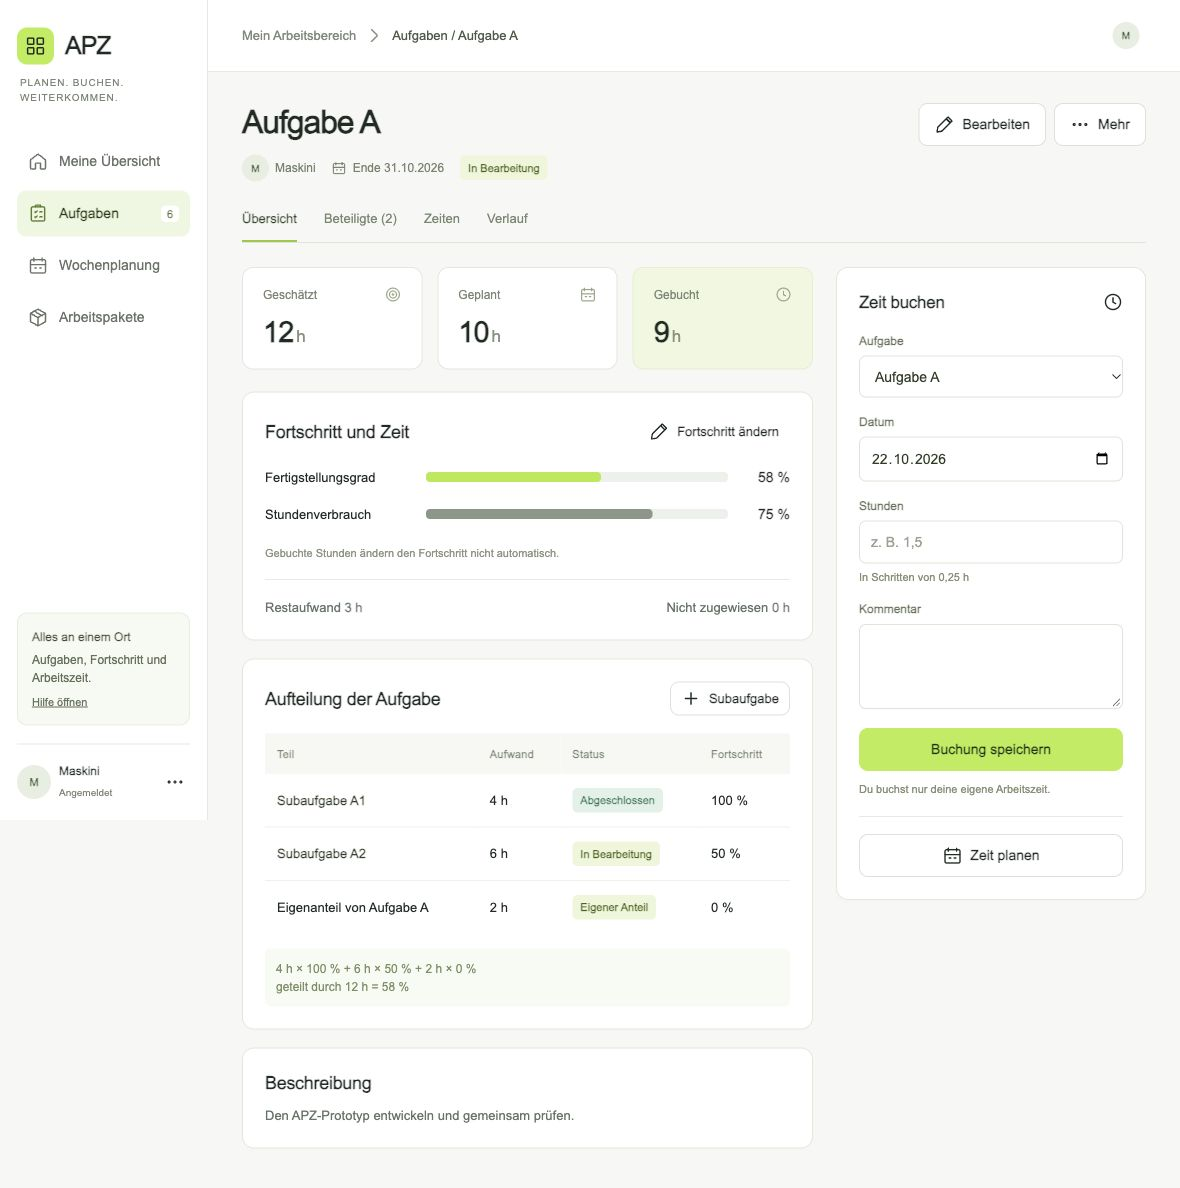
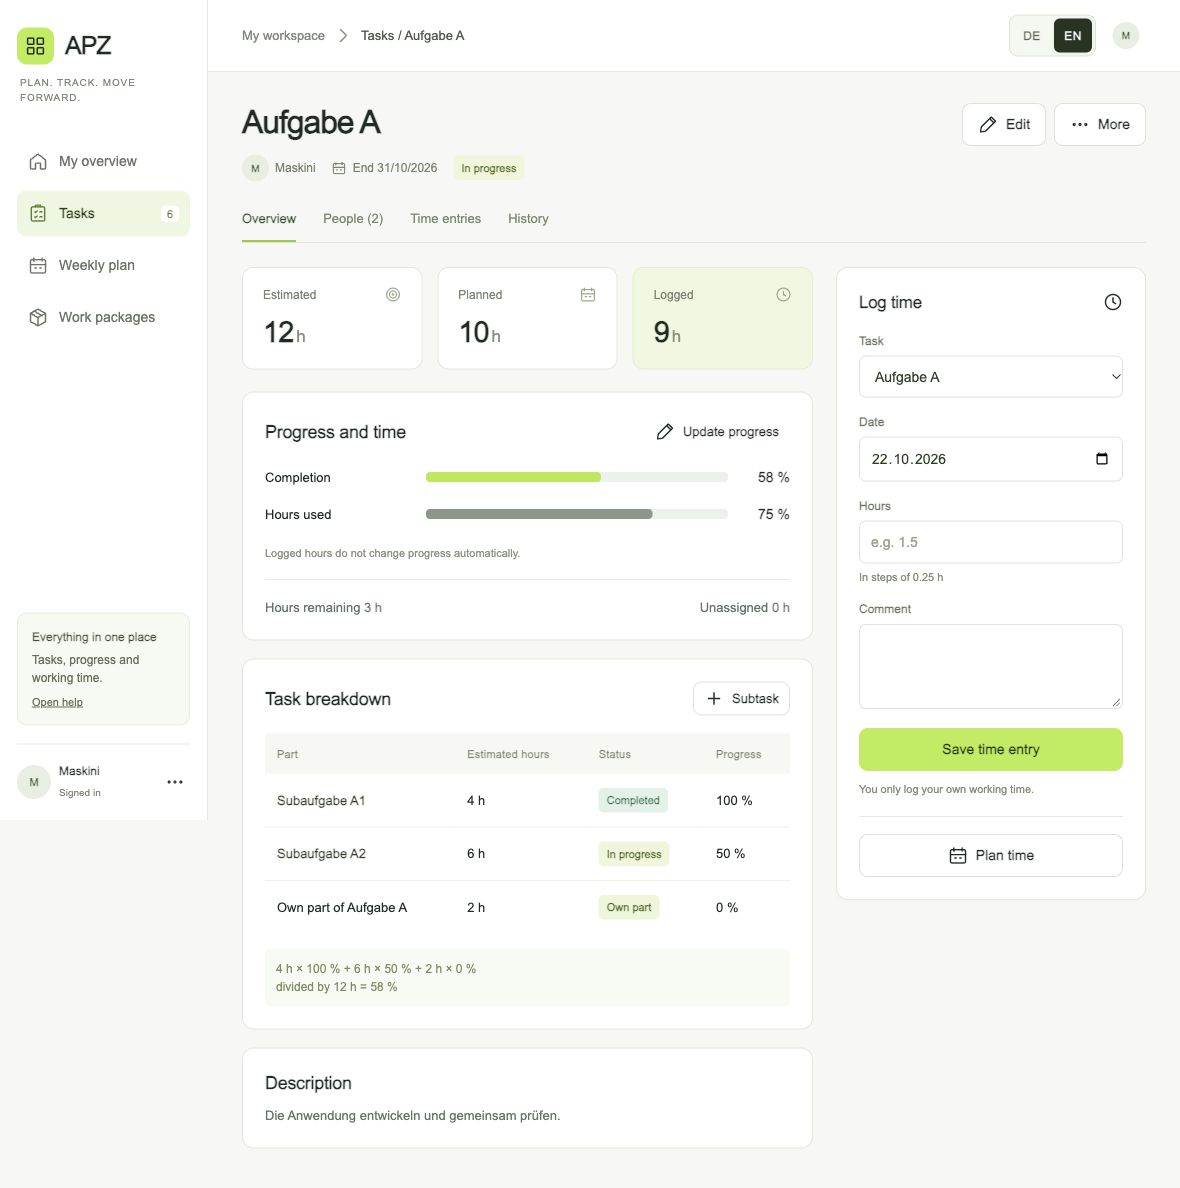
Simplify English showcase and link the Cloudflare app

diff --git a/style.css b/style.css
@@ -1,1 +1,1 @@
-:root{--ink:#253222;--muted:#697361;--green:#b9ed49;--line:#dce3d7;--paper:#fafbf7}*{box-sizing:border-box}html{scroll-behavior:smooth;scroll-padding-top:35px}body{margin:0;background:var(--paper);color:var(--ink);font-family:Arial,Helvetica,sans-serif;-webkit-font-smoothing:antialiased}a{color:inherit;text-decoration:none}a:focus-visible{outline:3px solid #567719;outline-offset:5px}.skip{position:absolute;left:20px;top:-70px;background:var(--green);padding:12px;z-index:5}.skip:focus{top:12px}header,main,footer{max-width:1220px;margin:auto}header{height:104px;display:flex;align-items:center;justify-content:space-between;padding:0 32px;border-bottom:1px solid var(--line)}.brand{display:flex;gap:10px;align-items:center;font-size:28px;font-weight:750;letter-spacing:-1px}nav{display:flex;align-items:center;gap:28px;font-size:14px}.nav-cta{padding:13px 17px;border:1px solid var(--line);border-radius:9px;background:white}.hero{padding:89px 32px 57px}.eyebrow{font-size:11px;letter-spacing:1.7px;font-weight:700;color:var(--muted);display:flex;align-items:center;gap:9px}.eyebrow>span{width:7px;height:7px;background:#80ac20;border-radius:50%}h1{font-size:clamp(43px,5.25vw,69px);letter-spacing:-3px;line-height:1.06;margin:26px 0 24px;font-weight:650}h1>span{color:#7c9566}.hero p{font-size:19px;line-height:1.6;color:var(--muted);margin:0}.hero-actions{display:flex;align-items:center;gap:29px;margin-top:31px}.button{display:inline-flex;align-items:center;justify-content:center;gap:32px;background:var(--green);border-radius:8px;padding:18px 23px;font-size:14px;font-weight:700;transition:background .15s}.button:hover{background:#c9f373}.text-link{font-size:14px;border-bottom:1px solid #bfcab5;padding:8px 0}.credit{color:var(--muted);font-size:12px;margin-top:21px}.credit span{margin:0 9px}.preview{margin:0 32px;border:1px solid var(--line);border-radius:14px;overflow:hidden;background:white;box-shadow:0 18px 60px #2532220b}.window-bar{display:flex;align-items:center;justify-content:space-between;padding:17px 20px;background:#f0f3eb;font-size:11px;color:var(--muted);border-bottom:1px solid var(--line)}.dots{display:flex;gap:6px}.dots i{display:block;width:8px;height:8px;border-radius:50%;background:#d2dbca}.preview-image{display:block;max-height:680px;overflow:hidden}.preview img{display:block;width:100%;height:auto}.features{padding:100px 32px 89px;display:grid;grid-template-columns:.9fr 1.7fr;gap:60px}h2{font-size:36px;line-height:1.13;letter-spacing:-1.2px;font-weight:600;margin:20px 0}.feature-grid{display:grid;grid-template-columns:1fr 1fr;gap:40px 34px}.number{font-size:12px;color:#71845b;font-weight:700}.feature-grid h3{font-size:18px;margin:14px 0 11px;letter-spacing:-.3px}.feature-grid p{font-size:14px;line-height:1.65;color:var(--muted);margin:0}.closing{background:#eef4e3;margin:0 32px 60px;border:1px solid #e0e8d3;border-radius:13px;padding:40px;display:flex;align-items:center;justify-content:space-between;gap:25px}.closing h2{font-size:30px;margin:16px 0 10px}.closing p{font-size:14px;color:var(--muted);margin:0}footer{border-top:1px solid var(--line);display:flex;align-items:center;gap:35px;padding:29px 32px;font-size:12px;color:var(--muted)}footer .brand{font-size:22px;color:var(--ink)}footer span:last-child{margin-left:auto}@media(max-width:720px){header{height:83px;padding:0 22px}nav{gap:12px}nav>a:not(.nav-cta){display:none}.nav-cta{font-size:12px}.hero{padding:60px 22px 40px}h1{letter-spacing:-2px}.hero p{font-size:16px}.hero-actions{align-items:flex-start;flex-direction:column;gap:14px}.credit{font-size:11px}.preview{margin:0 15px}.window-bar{padding:13px}.preview-image{max-height:460px}.features{padding:64px 22px;grid-template-columns:1fr;gap:25px}.feature-grid{gap:30px 24px}.closing{margin:0 15px 38px;padding:27px;display:block}.closing .button{margin-top:24px}footer{padding:24px 22px;gap:20px;flex-wrap:wrap}footer span:last-child{margin-left:0}h2{font-size:31px}}@media(prefers-reduced-motion:reduce){html{scroll-behavior:auto}.button{transition:none}}
+*{box-sizing:border-box}html{color-scheme:light}body{margin:0;background:#f7f8f4;color:#263321;font-family:Inter,-apple-system,BlinkMacSystemFont,"Segoe UI",Arial,sans-serif;-webkit-font-smoothing:antialiased}a{color:inherit}header,main,footer{max-width:1100px;margin:auto}header{display:flex;align-items:center;justify-content:space-between;padding:32px 36px}.brand{display:flex;align-items:center;gap:11px;font-size:25px;font-weight:750;letter-spacing:-1px;text-decoration:none}.brand img{border-radius:10px}.credit{font-size:13px;color:#68715f}main{padding:0 36px}.intro{display:flex;align-items:center;justify-content:space-between;gap:36px;padding:44px 0 42px}.eyebrow{font-size:11px;letter-spacing:2px;font-weight:650;color:#738167;margin:0 0 18px}h1{font-size:clamp(42px,5.7vw,64px);line-height:1.04;letter-spacing:-3px;font-weight:650;margin:0}h1 span{color:#6f805c}.description{font-size:17px;line-height:1.6;max-width:390px;color:#65705b;margin:22px 0 0}.start{flex-shrink:0;padding-top:25px;text-align:center}.button{display:inline-flex;align-items:center;justify-content:center;gap:35px;background:#b9ed49;padding:18px 27px;min-width:190px;border-radius:12px;font-size:16px;font-weight:650;text-decoration:none;box-shadow:0 4px 14px #4b631812;transition:background .15s,transform .15s}.button:hover{background:#ade03d;transform:translateY(-1px)}.button span{font-size:22px;line-height:1}.start p{font-size:12px;line-height:1.65;color:#79816f;margin:14px 0 0}.preview{margin:0;border:1px solid #dfe5d7;border-radius:15px;overflow:hidden;background:#fff;box-shadow:0 20px 55px #2c3c1610}.window-bar{display:flex;align-items:center;gap:16px;height:42px;padding:0 17px;border-bottom:1px solid #e8ece3;color:#8a9381;font-size:11px;background:#fbfcf9}.dots{display:flex;gap:5px}.dots i{width:7px;height:7px;border-radius:50%;background:#dce3d3}.preview a{display:block;max-height:590px;overflow:hidden}.preview img{display:block;width:100%;height:auto}footer{padding:27px 36px 32px;font-size:12px;color:#8a9381}.skip{position:absolute;left:12px;top:-70px;background:#fff;padding:12px;z-index:10}.skip:focus{top:12px}:focus-visible{outline:3px solid #4f7729;outline-offset:4px}@media(max-width:600px){header{padding:24px}.credit{font-size:11px}main{padding:0 24px}.intro{display:block;padding:30px 0}h1{letter-spacing:-2px;font-size:46px}.description{font-size:15px}.start{text-align:left;padding-top:26px;display:flex;align-items:center;gap:16px}.button{min-width:145px;padding:15px 20px;gap:22px;font-size:14px}.start p{margin:0;font-size:10px}.preview{border-radius:10px}.preview a{max-height:390px}footer{padding:24px}.window-bar{height:34px;font-size:10px}}@media(prefers-reduced-motion:reduce){*{transition:none!important}}

diff --git a/index.html b/index.html
@@ -1,1 +1,37 @@
-<!doctype html><html lang="de"><head><meta charset="utf-8"><meta name="viewport" content="width=device-width,initial-scale=1"><meta name="theme-color" content="#b9ed49"><meta name="description" content="APZ von Maskini und Haider: Aufgaben planen, Arbeitszeit erfassen und den Fortschritt im Blick behalten."><title>APZ · Aufgabenplanung & Zeiterfassung</title><link rel="icon" href="favicon.svg"><link rel="stylesheet" href="style.css"></head><body><a class="skip" href="#inhalt">Zum Inhalt</a><header><a class="brand" href="#" aria-label="APZ Startseite"><img src="favicon.svg" width="36" height="36" alt="">APZ</a><nav aria-label="Navigation"><a href="#funktionen">Funktionen</a><a href="#einblick">Einblick</a><a class="nav-cta" href="https://apz-p05-prototyp.admas4.chatgpt.site">Anwendung öffnen <span aria-hidden="true">↗</span></a></nav></header><main id="inhalt"><section class="hero"><div class="eyebrow"><span></span> AUFGABENPLANUNG & ZEITERFASSUNG</div><h1>Klar planen.<br><span>Gemeinsam weiterkommen.</span></h1><p>Aufgaben aufteilen. Arbeitszeit festhalten.<br>Und jederzeit sehen, was schon fertig ist.</p><div class="hero-actions"><a class="button" href="https://apz-p05-prototyp.admas4.chatgpt.site">Anwendung öffnen <span aria-hidden="true">↗</span></a><a class="text-link" href="#einblick">Einen Blick hineinwerfen <span aria-hidden="true">↓</span></a></div><div class="credit">Von Maskini & Haider <span>·</span> Privater Zugang zur Anwendung</div></section><section class="preview" id="einblick" aria-label="Einblick in die Anwendung"><div class="window-bar"><div class="dots"><i></i><i></i><i></i></div><span>APZ / Aufgabe A</span><a href="preview.png" target="_blank" rel="noopener">Bild vergrößern ↗</a></div><a class="preview-image" href="preview.png" target="_blank" rel="noopener" aria-label="Ansicht von Aufgabe A vergrößern"><img src="preview.png" width="1180" height="1188" alt="APZ zeigt Aufgabe A mit 12 geschätzten, 10 geplanten und 9 gebuchten Stunden. Fertigstellungsgrad: 58 Prozent. Stundenverbrauch: 75 Prozent. Rechts kann eigene Arbeitszeit gebucht werden."></a></section><section class="features" id="funktionen"><div class="section-intro"><div class="eyebrow">WENIGER SUCHEN. MEHR ÜBERBLICK.</div><h2>Alles für die<br>gemeinsame Arbeit.</h2></div><div class="feature-grid"><article><span class="number">01</span><h3>Aufgaben strukturieren</h3><p>Aufgaben und Subaufgaben anlegen, Personen zuordnen und klare Endtermine setzen.</p></article><article><span class="number">02</span><h3>Zeit im Blick behalten</h3><p>Die Woche planen, eigene Arbeitszeit buchen und Einträge bei Bedarf korrigieren.</p></article><article><span class="number">03</span><h3>Fortschritt verstehen</h3><p>Fertigstellungsgrad und Stundenverbrauch getrennt sehen. Auch bei Aufgaben mit mehreren Teilen.</p></article><article><span class="number">04</span><h3>Gemeinsam organisieren</h3><p>Verantwortung festlegen, Mitwirkende verwalten und Aufgaben in Arbeitspaketen bündeln.</p></article></div></section><section class="closing"><div><div class="eyebrow">VOM PLAN ZUM ERGEBNIS</div><h2>Ein klarer nächster Schritt.</h2><p>Öffne APZ und starte mit deinen Aufgaben.</p></div><a class="button" href="https://apz-p05-prototyp.admas4.chatgpt.site">Zur Anwendung ↗</a></section></main><footer><a class="brand" href="#">APZ</a><span>Maskini & Haider</span><span>Aufgabenplanung & Zeiterfassung</span></footer></body></html>
+<!doctype html>
+<html lang="en">
+<head>
+  <meta charset="utf-8">
+  <meta name="viewport" content="width=device-width, initial-scale=1">
+  <meta name="theme-color" content="#b9ed49">
+  <meta name="description" content="APZ by Maskini and Haider. Plan tasks, log time and track progress together.">
+  <title>APZ · Plan tasks. Track time.</title>
+  <link rel="icon" href="favicon.svg">
+  <link rel="stylesheet" href="style.css">
+</head>
+<body>
+  <a class="skip" href="#main">Skip to content</a>
+  <header>
+    <a class="brand" href="./" aria-label="APZ home"><img src="favicon.svg" width="36" height="36" alt="">APZ</a>
+    <span class="credit">Maskini &amp; Haider</span>
+  </header>
+  <main id="main">
+    <section class="intro">
+      <div>
+        <p class="eyebrow">TASKS · TIME · PROGRESS</p>
+        <h1>Your work,<br><span>in one place.</span></h1>
+        <p class="description">Plan tasks, log time and track progress together.</p>
+      </div>
+      <div class="start">
+        <a class="button" href="https://apz.win-space.workers.dev">Open APZ <span aria-hidden="true">↗</span></a>
+        <p>German by default.<br>Switch to English in the app.</p>
+      </div>
+    </section>
+    <figure class="preview">
+      <div class="window-bar"><span class="dots" aria-hidden="true"><i></i><i></i><i></i></span><span>A look inside APZ</span></div>
+      <a href="preview.png" aria-label="View the full app preview"><img src="preview.png" width="1180" height="1188" alt="APZ in English: estimated, planned and logged hours, task progress, and a form to log time. The DE and EN buttons switch the interface language."></a>
+    </figure>
+  </main>
+  <footer>Less searching. More doing.</footer>
+</body>
+</html>

diff --git a/README.md b/README.md
@@ -1,9 +1,9 @@
 # APZ
 
-Aufgabenplanung und Zeiterfassung von **Maskini & Haider**.
+Plan tasks, log time and track progress together.
 
-[Projektseite öffnen](https://maskini.github.io/apz/)
+[Open APZ](https://apz.win-space.workers.dev) · [Project page](https://maskini.github.io/apz/)
 
-Aufgaben und Subaufgaben verwalten, Arbeitszeit erfassen, Fortschritt verfolgen und die Woche planen.
+By Maskini & Haider. The app opens in German and includes an English switch.
 
-Dieses Repository enthält ausschließlich die öffentliche Projektseite mit einer Anwendungsvorschau. Der Anwendungscode wird separat privat verwaltet. Die verlinkte Anwendung erfordert privaten Zugang.
+This repository contains the public project page and preview. The application source is maintained in a separate private repository. The application runs on Cloudflare Workers.
